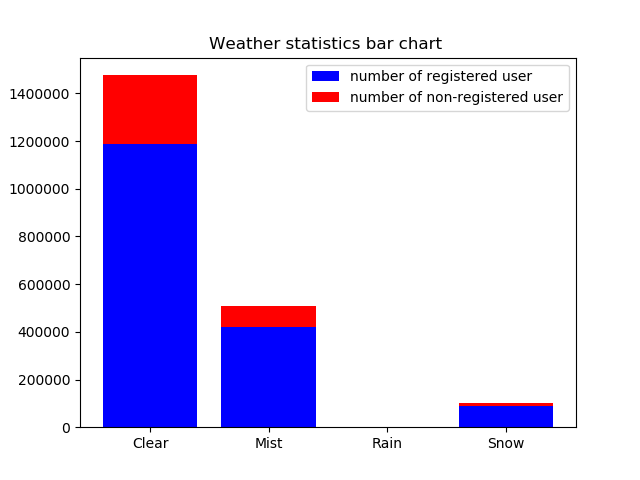
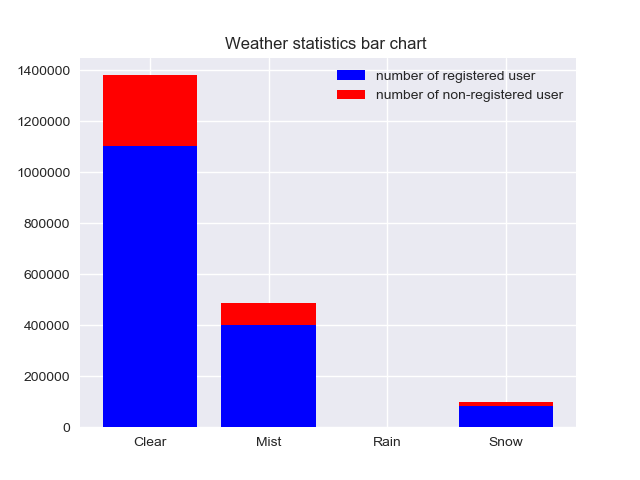
5/2 commit

diff --git a/bikesharing.py b/bikesharing.py
@@ -2,7 +2,7 @@ import pandas as pd
 import numpy as np
 import matplotlib.pyplot as plt
 import seaborn as sns
-dataframe=pd.read_csv("D:\\bikesharing\\data\\train.csv")
+dataframe=pd.read_csv("train.csv")
 sns.set()
 
 
